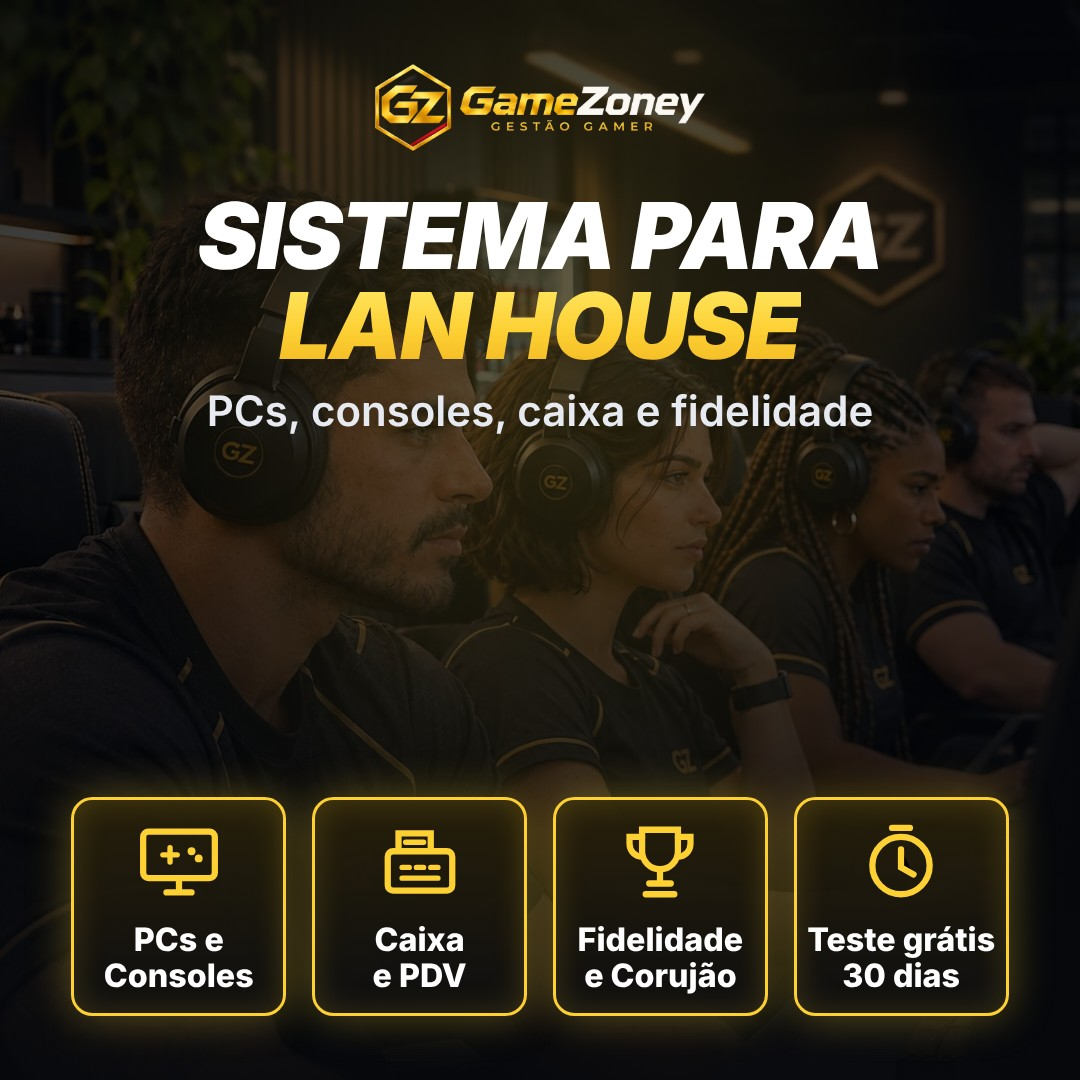
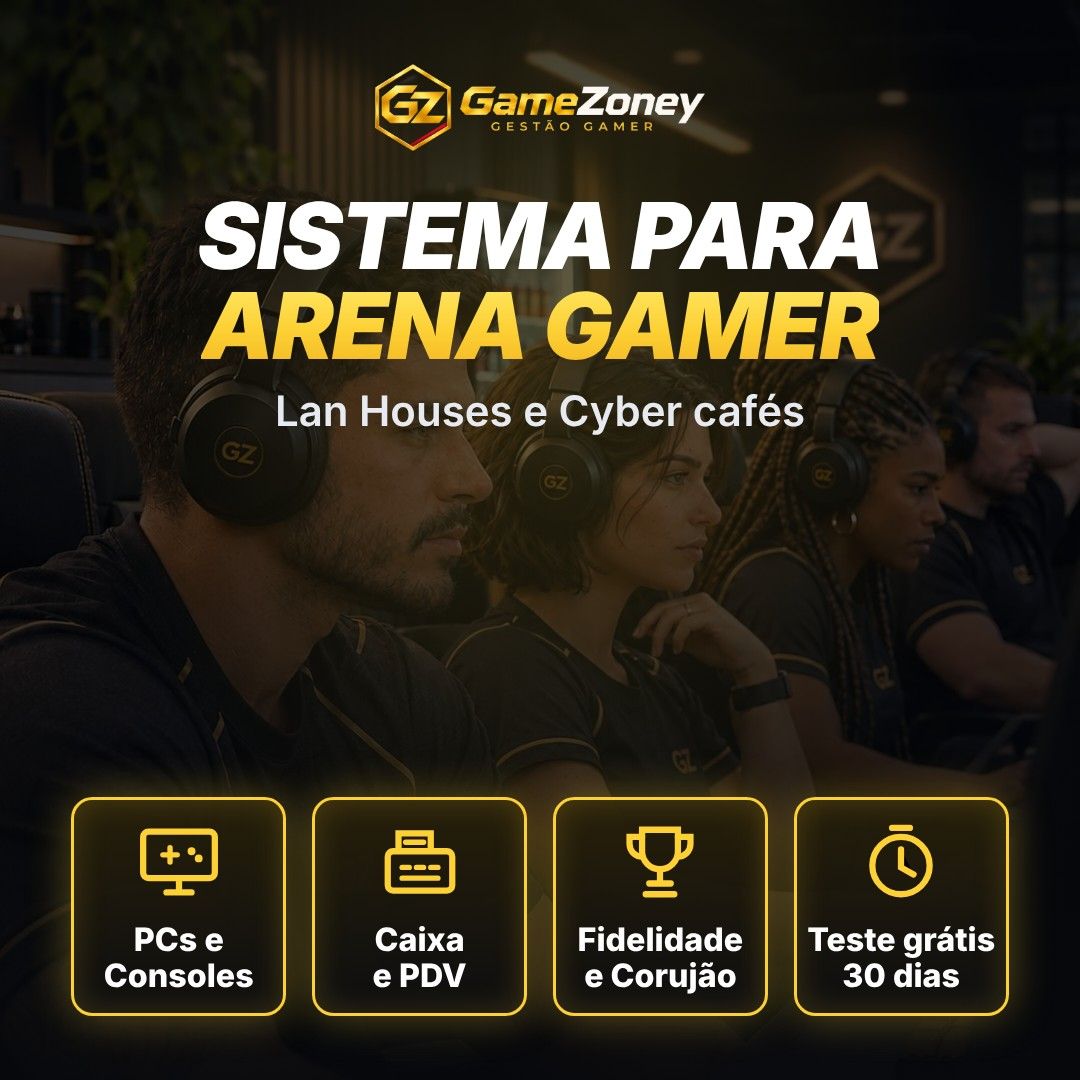
Anúncios: título SISTEMA PARA ARENA GAMER + Lan Houses e Cyber cafés
Claude-Session: https://claude.ai/code/session_011pBjUp777QtjBT9w3kkM9L

Changed region(s): [[0.1833, 0.2444, 0.825, 0.3361], [0.1833, 0.3667, 0.825, 0.3972]]

diff --git a/marketing/gerar-anuncios.js b/marketing/gerar-anuncios.js
@@ -22,8 +22,8 @@ const frame = (img, w, rot = -3) => `<div style="width:${w}px;border-radius:18px
 const PECAS = {
   // Instagram/Facebook feed 4:5
   'feed-1080x1350-recursos': [1080, 1350, `<div style="position:absolute;inset:0;padding:70px 60px;display:flex;flex-direction:column;align-items:center">
-    <img src="${logo}" style="width:360px"><div style="margin-top:44px;font-size:96px;font-weight:900;font-style:italic;line-height:.98;text-align:center;letter-spacing:-2px">SISTEMA PARA<br><span class="g">LAN HOUSE</span></div>
-    <div style="margin-top:14px;font-size:44px;font-weight:600;color:#e7eaf0">e Arena Gamer</div>
+    <img src="${logo}" style="width:360px"><div style="margin-top:44px;font-size:96px;font-weight:900;font-style:italic;line-height:.98;text-align:center;letter-spacing:-2px">SISTEMA PARA<br><span class="g">ARENA GAMER</span></div>
+    <div style="margin-top:14px;font-size:44px;font-weight:600;color:#e7eaf0">Lan Houses e Cyber cafés</div>
     <div style="margin-top:46px">${frame(shot('painel'), 760)}</div>
     <div style="position:absolute;bottom:70px;left:0;right:0">${tiles(TILES, 220)}</div></div>`],
   'feed-1080x1350-pc-trava': [1080, 1350, `<div style="position:absolute;inset:0;padding:80px 70px">
@@ -33,20 +33,21 @@ const PECAS = {
     <div style="position:absolute;bottom:80px;left:70px;right:70px;display:flex;align-items:center;justify-content:space-between"><div style="padding:30px 46px;border-radius:18px;background:${GOLD};color:#141008;font-size:44px;font-weight:900">Teste grátis 30 dias</div><div style="font-size:40px;font-weight:800">gamezoney.com</div></div></div>`],
   // Stories / Reels / Status do WhatsApp 9:16 (topo e base livres para os botões do app)
   'story-1080x1920': [1080, 1920, `<div style="position:absolute;inset:0;padding:260px 60px 0;display:flex;flex-direction:column;align-items:center">
-    <img src="${logo}" style="width:380px"><div style="margin-top:50px;font-size:108px;font-weight:900;font-style:italic;line-height:.98;text-align:center;letter-spacing:-2px">SISTEMA PARA<br><span class="g">LAN HOUSE</span></div>
-    <div style="margin-top:16px;font-size:48px;font-weight:600;color:#e7eaf0">e Arena Gamer</div>
+    <img src="${logo}" style="width:380px"><div style="margin-top:50px;font-size:108px;font-weight:900;font-style:italic;line-height:.98;text-align:center;letter-spacing:-2px">SISTEMA PARA<br><span class="g">ARENA GAMER</span></div>
+    <div style="margin-top:16px;font-size:48px;font-weight:600;color:#e7eaf0">Lan Houses e Cyber cafés</div>
     <div style="margin-top:60px">${frame(shot('painel'), 860, -2)}</div>
     <div style="margin-top:70px">${tiles(TILES, 225)}</div>
     <div style="margin-top:60px;padding:30px 60px;border-radius:20px;background:${GOLD};color:#141008;font-size:50px;font-weight:900">Teste grátis · gamezoney.com</div></div>`],
   // Facebook/Google Display quadrado
   'quadrado-1080x1080': [1080, 1080, `<div style="position:absolute;inset:0;padding:64px 60px;display:flex;flex-direction:column;align-items:center">
-    <img src="${logo}" style="width:330px"><div style="margin-top:40px;font-size:92px;font-weight:900;font-style:italic;line-height:.98;text-align:center;letter-spacing:-2px">SISTEMA PARA<br><span class="g">LAN HOUSE</span></div>
-    <div style="margin-top:14px;font-size:42px;font-weight:600;color:#e7eaf0">PCs, consoles, caixa e fidelidade</div>
+    <img src="${logo}" style="width:330px"><div style="margin-top:40px;font-size:92px;font-weight:900;font-style:italic;line-height:.98;text-align:center;letter-spacing:-2px">SISTEMA PARA<br><span class="g">ARENA GAMER</span></div>
+    <div style="margin-top:14px;font-size:42px;font-weight:600;color:#e7eaf0">Lan Houses e Cyber cafés</div>
     <div style="position:absolute;bottom:64px;left:0;right:0">${tiles(TILES, 215)}</div></div>`],
   // Google Display / link do Facebook 1,91:1
   'paisagem-1200x628': [1200, 628, `<div style="position:absolute;inset:0;padding:50px 56px">
-    <img src="${logo}" style="width:250px"><div style="margin-top:30px;font-size:70px;font-weight:900;font-style:italic;line-height:.98;letter-spacing:-1.5px">SISTEMA PARA<br><span class="g">LAN HOUSE</span></div>
-    <div style="margin-top:14px;font-size:30px;color:#e7eaf0;max-width:560px">PCs, consoles, recargas, PDV, caixa e fidelidade em um só sistema.</div>
+    <img src="${logo}" style="width:250px"><div style="margin-top:30px;font-size:70px;font-weight:900;font-style:italic;line-height:.98;letter-spacing:-1.5px">SISTEMA PARA<br><span class="g">ARENA GAMER</span></div>
+    <div style="margin-top:10px;font-size:34px;font-weight:600;color:#fff">Lan Houses e Cyber cafés</div>
+    <div style="margin-top:12px;font-size:26px;color:#e7eaf0;max-width:560px">PCs, consoles, recargas, PDV, caixa e fidelidade em um só sistema.</div>
     <div style="margin-top:28px;display:inline-block;padding:16px 30px;border-radius:12px;background:${GOLD};color:#141008;font-size:28px;font-weight:900">Teste grátis 30 dias</div>
     <div style="position:absolute;right:40px;top:90px">${frame(shot('painel'), 500, -3)}</div></div>`]
 };
